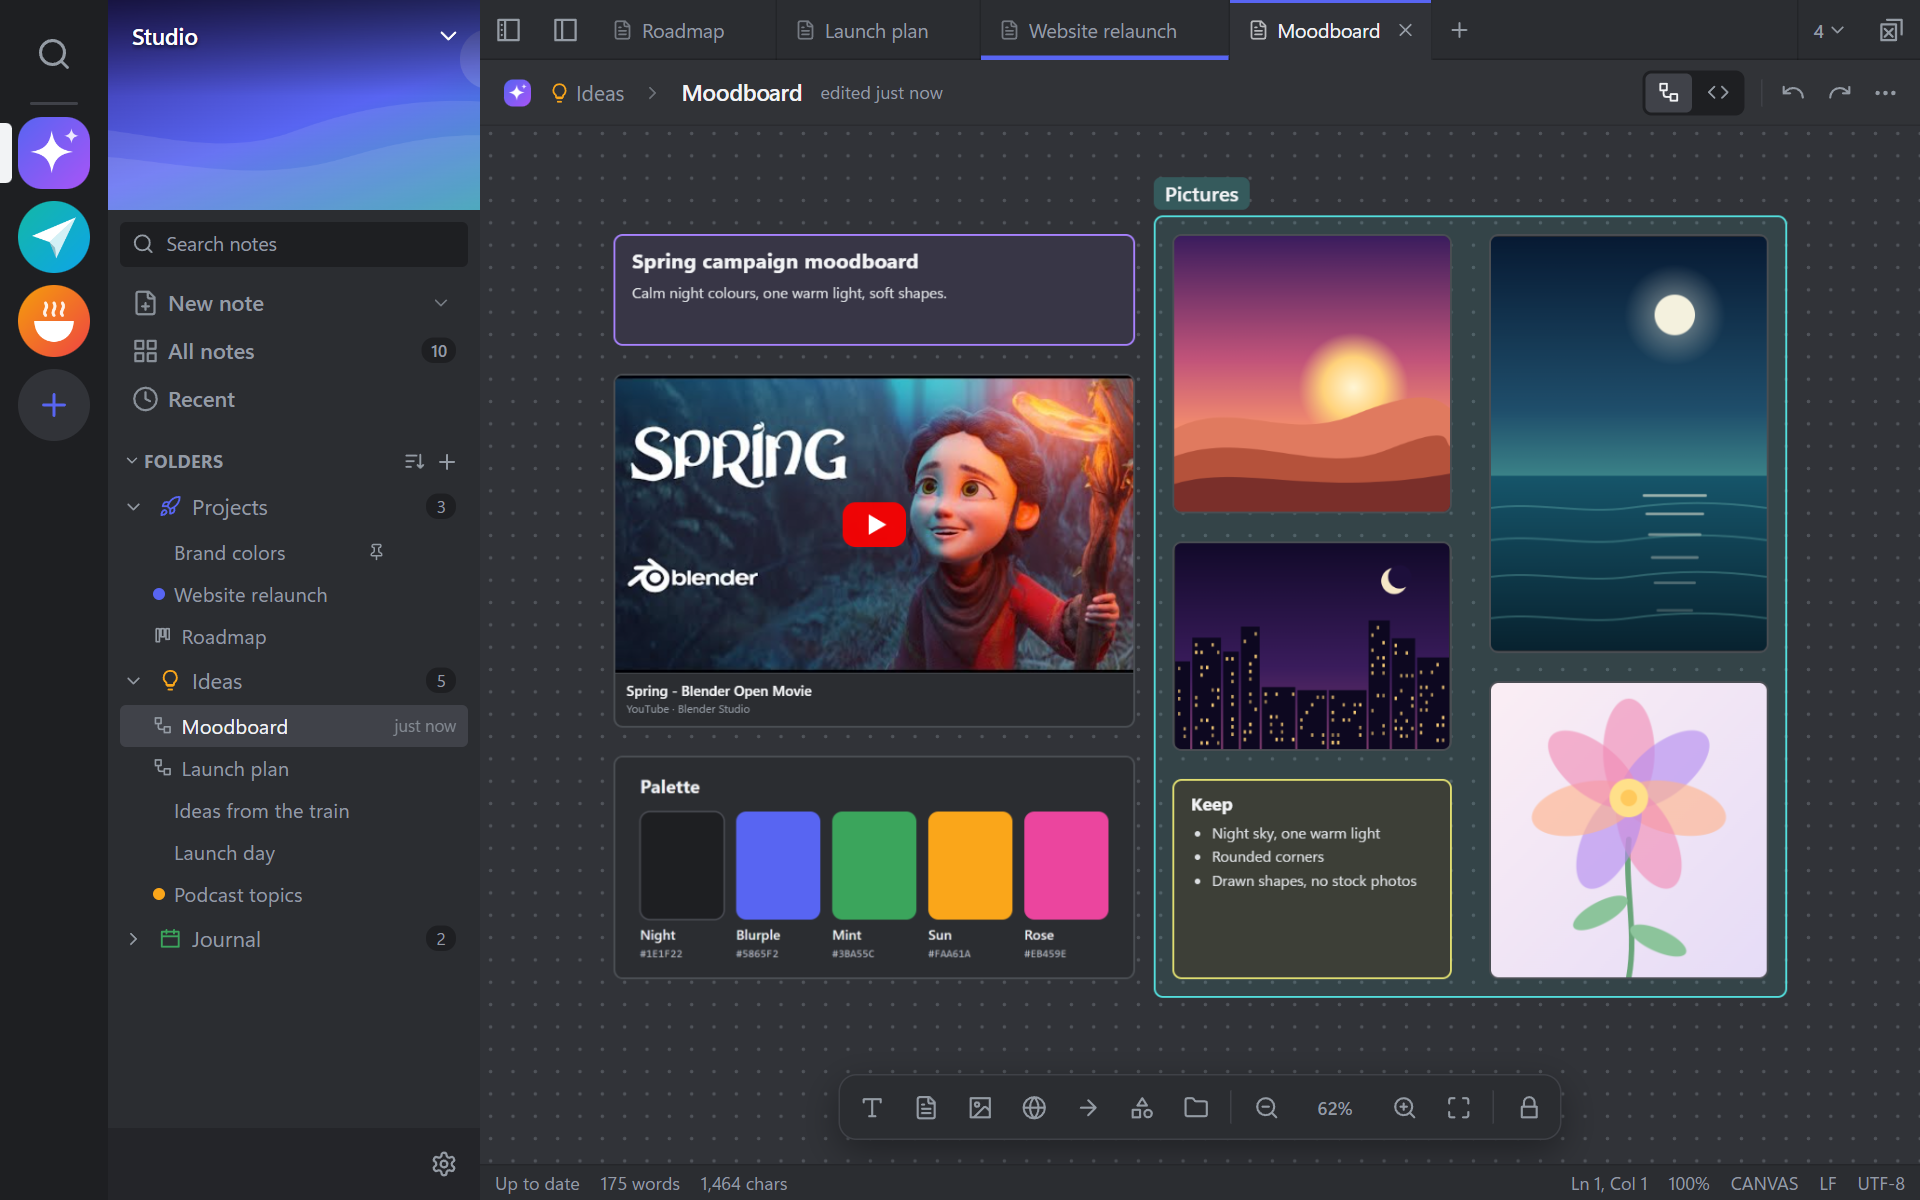
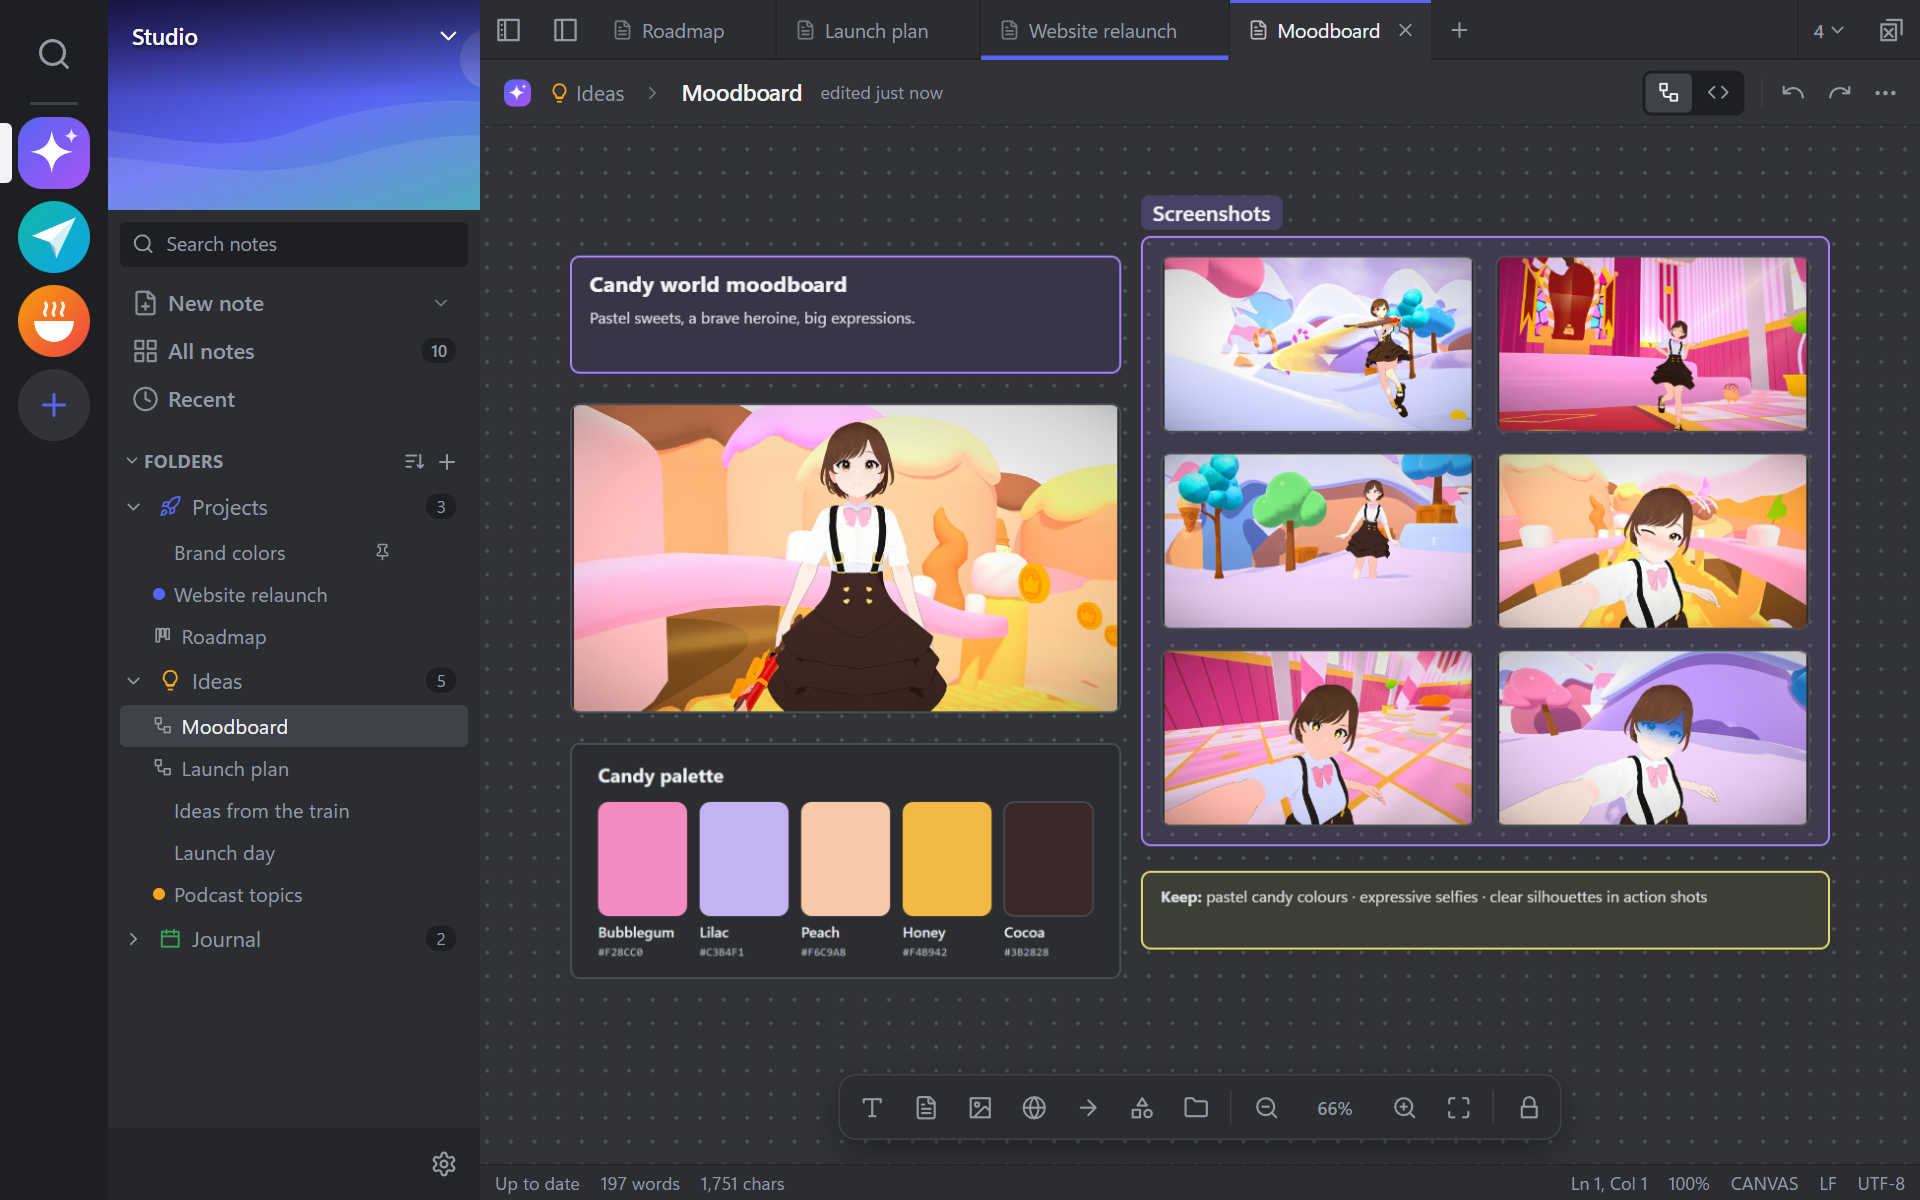
Moodboard picture with game screenshots
The README's moodboard canvas now shows the user's own anime game screenshots, with a
palette in the game's colours, instead of drawn pictures and a YouTube card.

diff --git a/README.md b/README.md
@@ -34,13 +34,10 @@ Boards are written in the Obsidian Kanban plugin's format and canvases are JSON 
   <img src="docs/images/canvas.png" width="49%" alt="A canvas with shapes, labelled arrows and a live card of a note">
 </p>
 
-A canvas holds pictures and web links too: YouTube videos and X posts show their preview, and their videos play right
-on the board.
+A canvas holds pictures and web links too (YouTube videos and X posts show their preview, and their videos play right
+on the board), so it makes a good moodboard:
 
-![A moodboard canvas: pictures in a group, a colour palette, a sticky note and a YouTube video card](docs/images/moodboard.png)
-
-<sub>Video on the moodboard: <a href="https://www.youtube.com/watch?v=WhWc3b3KhnY">Spring</a> by Blender Studio,
-CC BY 4.0.</sub>
+![A moodboard canvas: anime game screenshots in a group, a colour palette and a sticky note](docs/images/moodboard.png)
 
 ## On your phone
 
